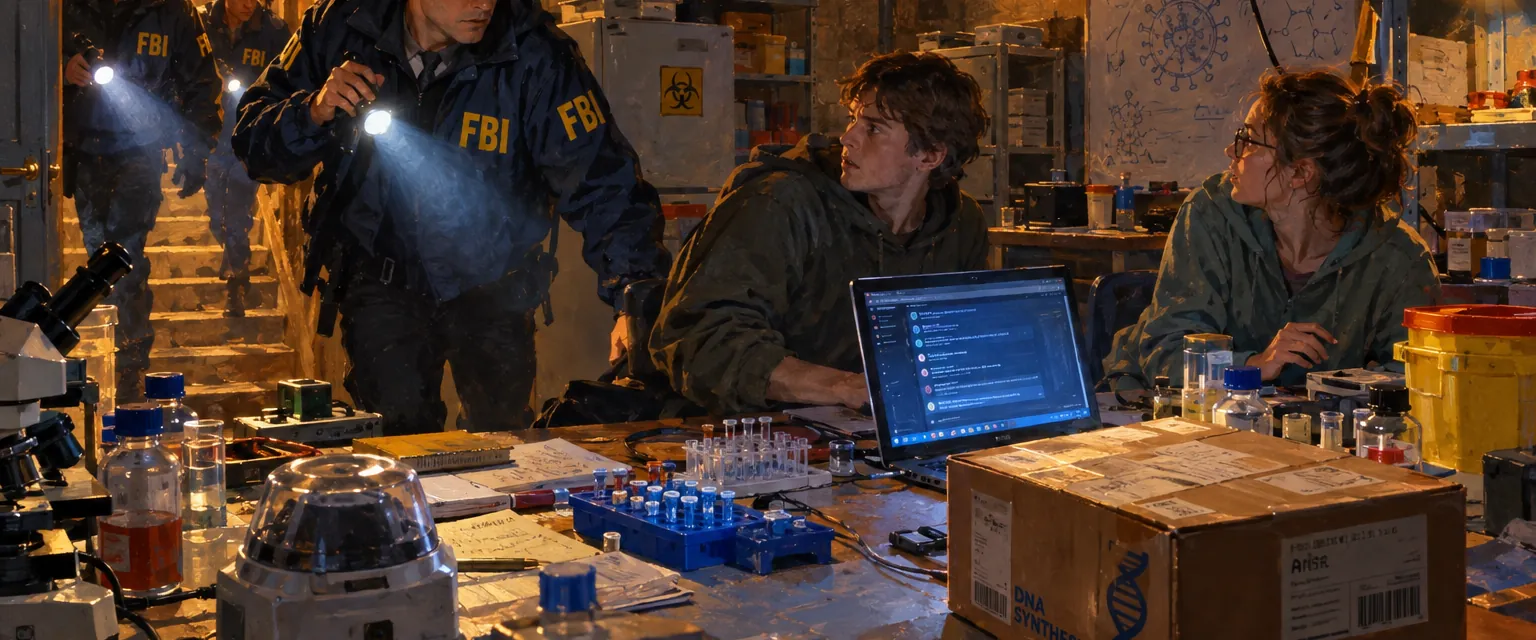
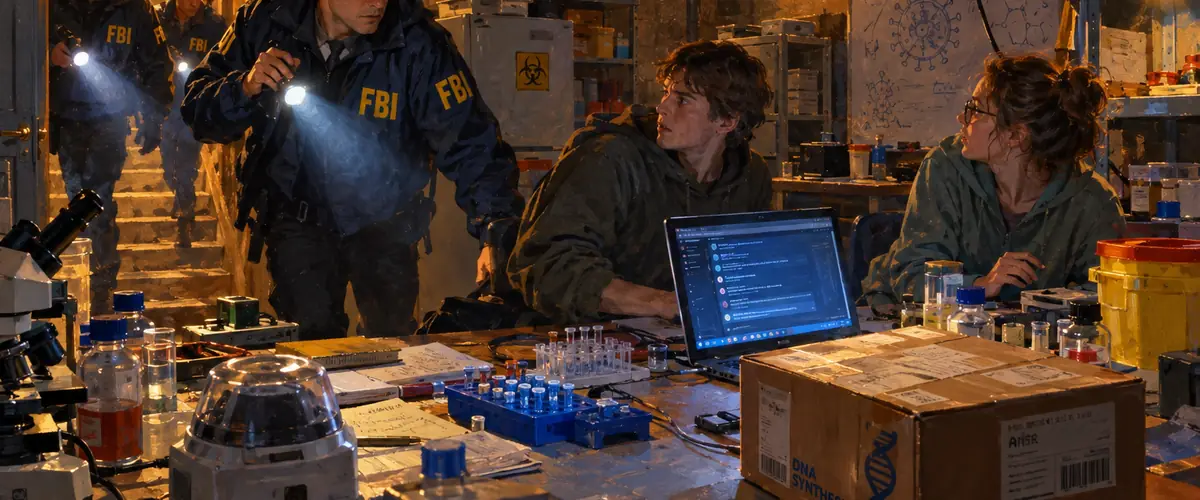
Card art preview: shrink the painted images to 1200x500 WebP q72 (3.8 -> 2.1 MB)

diff --git a/scripts/process_card_art.py b/scripts/process_card_art.py
@@ -1,7 +1,7 @@
 """Crop generated card art to the card's 12:5 shape and save as WebP.
 
 Usage: python3 scripts/process_card_art.py [SRC_DIR]  (default /tmp/claude-501/gptart2)
-Writes assets/cards-gpt/<id>.webp (1536x640, quality 80, about 40 KB each).
+Writes assets/cards-gpt/<id>.webp (1200x500, quality 72, about 90 KB each; ~2.1 MB for all 24).
 """
 import sys
 from pathlib import Path
@@ -17,5 +17,6 @@ for png in sorted(src.glob("*.png")):
     w, h = im.size
     ch = round(w * 5 / 12)
     top = (h - ch) // 2
-    im.crop((0, top, w, top + ch)).save(out / f"{png.stem}.webp", "WEBP", quality=80, method=6)
+    strip = im.crop((0, top, w, top + ch)).resize((1200, 500), Image.LANCZOS)
+    strip.save(out / f"{png.stem}.webp", "WEBP", quality=72, method=6)
     print(png.stem, (out / f"{png.stem}.webp").stat().st_size // 1024, "KB")
